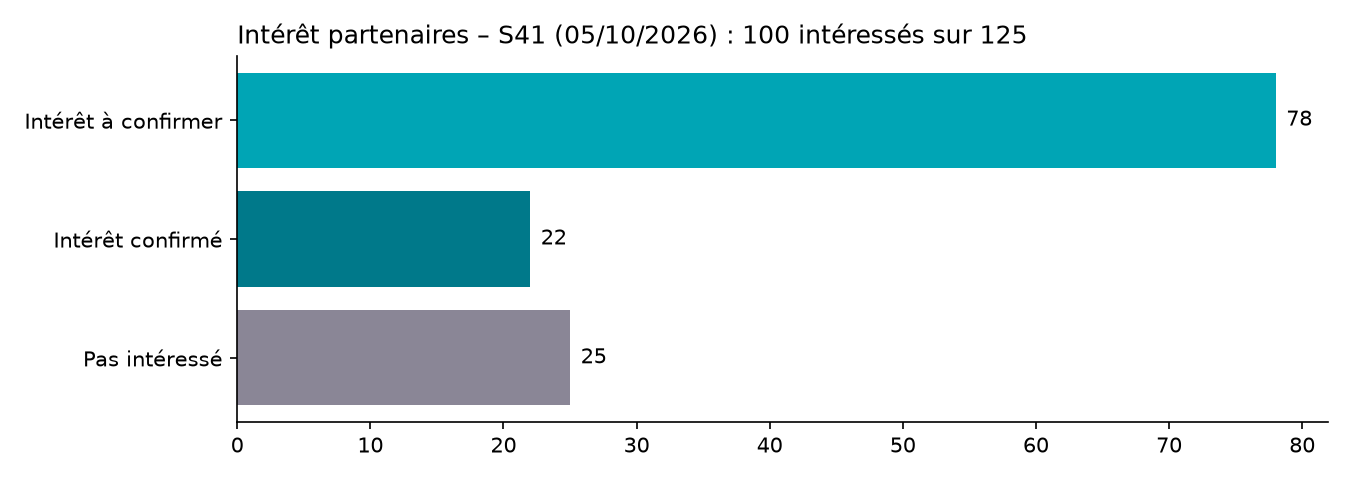
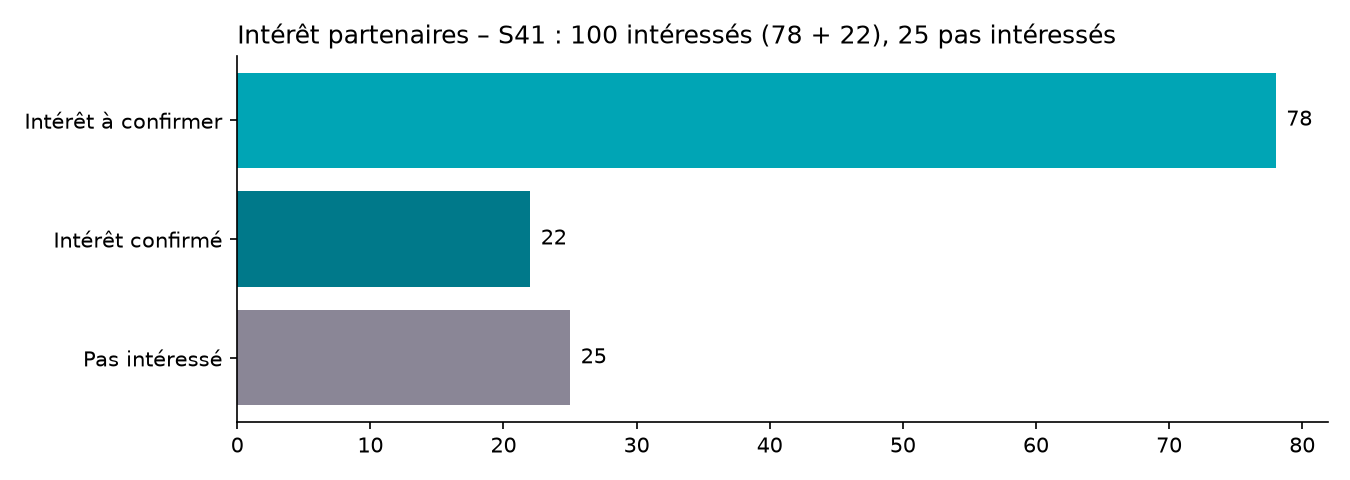
S41 deck: show 100 interested partners (78 + 22), not 125
Claude-Session: https://claude.ai/code/session_01LkDZ43fAxsiGHwtPuUQvfi

Changed region(s): [[0.4044, 0.0312, 0.84, 0.0938]]

diff --git a/challenge-ia/semaines/2026-S41/slides/slides/vue.html b/challenge-ia/semaines/2026-S41/slides/slides/vue.html
@@ -2,13 +2,13 @@
 <div style="display:flex;flex-direction:column;gap:12px"><p style="font-size:24px;font-weight:700;letter-spacing:2px;text-transform:uppercase;color:#6b6678">Vue d'ensemble du challenge</p><h2 style="font-size:60px;font-weight:800;line-height:1.1">Le challenge en un coup d'œil</h2></div>
 <div style="display:grid;grid-template-columns:1fr 1fr;gap:32px">
 <div style="background:#fbfcfc;border-radius:12px;padding:36px;box-shadow:0 1px 2px rgba(42,37,54,.06), 0 6px 20px rgba(42,37,54,.06);border-top:10px solid #00798a;display:flex;flex-direction:column;gap:28px">
-<p style="font-size:24px;font-weight:700;letter-spacing:2px;text-transform:uppercase;padding:6px 20px;border-radius:999px;align-self:start;background:#d6f1f3;color:#00596a">Intérêt partenaires · 125 partenaires</p>
+<p style="font-size:24px;font-weight:700;letter-spacing:2px;text-transform:uppercase;padding:6px 20px;border-radius:999px;align-self:start;background:#d6f1f3;color:#00596a">Intérêt partenaires · 100 intéressés</p>
 <div style="display:flex;flex-direction:column;gap:24px">
 <div style="display:flex;align-items:center;gap:20px"><p style="width:300px;font-size:26px;font-weight:600">Intérêt à confirmer</p><div style="width:360px;height:56px;background:#00a5b5;border-radius:6px"></div><p style="font-size:30px;font-weight:800">78</p></div>
 <div style="display:flex;align-items:center;gap:20px"><p style="width:300px;font-size:26px;font-weight:600">Intérêt confirmé</p><div style="width:102px;height:56px;background:#00798a;border-radius:6px"></div><p style="font-size:30px;font-weight:800">22</p></div>
 <div style="display:flex;align-items:center;gap:20px"><p style="width:300px;font-size:26px;font-weight:600">Pas intéressé</p><div style="width:115px;height:56px;background:#8a8696;border-radius:6px"></div><p style="font-size:30px;font-weight:800">25</p></div>
 </div>
-<p style="font-size:24px;color:#6b6678">Nombre de partenaires par statut d'intérêt</p>
+<p style="font-size:24px;color:#6b6678">100 intéressés = 78 à confirmer + 22 confirmés. 25 partenaires ne sont pas intéressés.</p>
 </div>
 <div style="background:#fbfcfc;border-radius:12px;padding:36px;box-shadow:0 1px 2px rgba(42,37,54,.06), 0 6px 20px rgba(42,37,54,.06);border-top:10px solid #7e0a5c;display:flex;flex-direction:column;gap:20px">
 <p style="font-size:24px;font-weight:700;letter-spacing:2px;text-transform:uppercase;padding:6px 20px;border-radius:999px;align-self:start;background:#f6e3ef;color:#7e0a5c">Projets clients finaux · 11 projets</p>

diff --git a/challenge-ia/semaines/2026-S41/slides/slides/cover.html b/challenge-ia/semaines/2026-S41/slides/slides/cover.html
@@ -3,5 +3,5 @@
 <p style="font-size:28px;font-weight:700;letter-spacing:3px;text-transform:uppercase;color:#ffb466">Réunion commerciale hebdomadaire · Semaine 41 · 5 octobre 2026</p>
 <h1 style="font-size:112px;font-weight:800;line-height:1.05;color:#fbfcfc">Challenge Dstny Digital Assistant (IA)</h1>
 <p style="font-size:36px;color:#d9d5e2;line-height:1.4">Intérêt des partenaires et pipeline de projets clients finaux, fin 2026 et 2027</p>
-<aside>Point hebdomadaire du challenge IA. Deux sources cette semaine : le rapport HubSpot « Partenaires - Intérêt IA » (statut d'intérêt de 125 partenaires) et le rapport « Partenaires - Opportunités IA » (11 projets clients finaux).</aside>
+<aside>Point hebdomadaire du challenge IA. Deux sources cette semaine : le rapport HubSpot « Partenaires - Intérêt IA » (100 partenaires intéressés, 25 pas intéressés) et le rapport « Partenaires - Opportunités IA » (11 projets clients finaux).</aside>
 </section>

diff --git a/challenge-ia/semaines/2026-S41/slides/slides/interet.html b/challenge-ia/semaines/2026-S41/slides/slides/interet.html
@@ -13,5 +13,5 @@
 </div>
 </div>
 <p style="position:absolute;left:128px;bottom:64px;width:1664px;font-size:24px;color:#6b6678">Dstny · Réunion commerciale S41 · Source : HubSpot, exports du 05/10/2026 · 4/9</p>
-<aside>125 partenaires ont un statut d'intérêt renseigné. Les 78 partenaires au statut « Intérêt » n'ont aucun projet client final ouvert. Les 19 confirmés sans projet sont la priorité : l'intérêt est acquis, il reste à identifier le client final.</aside>
+<aside>100 partenaires intéressés (78 à confirmer + 22 confirmés) ; 25 autres ne sont pas intéressés. Les 78 partenaires au statut « Intérêt » n'ont aucun projet client final ouvert. Les 19 confirmés sans projet sont la priorité : l'intérêt est acquis, il reste à identifier le client final.</aside>
 </section>

diff --git a/challenge-ia/semaines/2026-S41/analyse.md b/challenge-ia/semaines/2026-S41/analyse.md
@@ -5,14 +5,13 @@ Deck de la réunion : https://claude.ai/artifact/7wdcAQdckVatM2TfabNfVr (copie d
 Cette semaine est la **référence** du suivi : aucune évolution n'est calculée. Les comparaisons commencent à la S42 (lundi 12/10 vs lundi 05/10).
 
 ## Sources
-- `export-hubspot-interet-ia.xlsx` : rapport « Partenaires - Intérêt IA », 125 partenaires avec un statut d'intérêt renseigné.
+- `export-hubspot-interet-ia.xlsx` : rapport « Partenaires - Intérêt IA », 100 partenaires intéressés (78 à confirmer + 22 confirmés) et 25 pas intéressés.
 - `export-hubspot-opportunites-ia.xlsx` : rapport « Partenaires - Opportunités IA », 11 transactions (identiques à l'export du 01/10 : mêmes phases, mêmes dates).
 
 ## Chiffres clés
 | Indicateur | S41 |
 |---|---|
 | **Intérêt partenaires** | |
-| Partenaires avec un statut renseigné | 125 |
 | Intérêt (à confirmer) | 78 |
 | Intérêt confirmé | 22 |
 | Pas intéressé | 25 |
@@ -26,7 +25,7 @@ Cette semaine est la **référence** du suivi : aucune évolution n'est calculé
 Projets par commercial : Corinne Baroukh 5 (1 en cours), Jennifer Pereira 3, Alain Babaci 2 (1 en cours), Vincent Del Campo 1.
 
 ## Analyse
-1. **Intérêt large** : 100 partenaires intéressés sur 125, dont 22 confirmés ; 78 intérêts restent à confirmer.
+1. **Intérêt large** : 100 partenaires intéressés (78 + 22), dont 22 confirmés ; 25 pas intéressés ; 78 intérêts restent à confirmer.
 2. **Très peu de conversion en projets** : 3 partenaires intéressés sur 100 ont un projet client final. 19 confirmés n'ont pas encore de projet : priorité pour le pipeline 2027.
 3. **Propriété Intérêt pas à jour** : 7 partenaires ont un projet sans intérêt renseigné (Corinne 3, Jennifer 3, Vincent 1). On compterait plutôt 107 partenaires intéressés.
 4. **Pipeline figé depuis le 01/10** : aucune nouvelle opportunité, aucun changement de phase ni de date.
